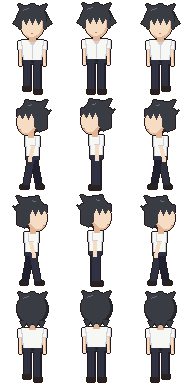
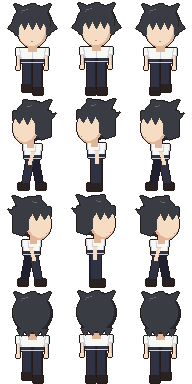
歩行グラフィックの頭と体の比率を、参考のドットを測った値に合わせる（頭を大きく、胴と脚を短く、靴を太く）
Claude-Session: https://claude.ai/code/session_017gxvkc2TW4xYgG5MuSL3N1

Changed region(s): [[0.6875, 0.0, 0.9688, 1.0], [0.0312, 0.0, 0.3125, 1.0], [0.375, 0.0, 0.625, 1.0]]

diff --git a/files.js b/files.js
@@ -2,7 +2,7 @@
 // マップなどを足したら scripts に1行足す（順番どおりに読み込む。main.js は最後）。
 // 版の番号 v は tools/stamp.py が書き換える。
 window.FILES = {
-  v: '20261127022327',
+  v: '20261127022711',
   scripts: [
     'engine/core.js',
     'engine/world.js',

diff --git a/tools/sprites/make_chars.py b/tools/sprites/make_chars.py
@@ -1,4 +1,5 @@
-"""キャラクターの歩行グラフィックを一から描いて img/chars/*.png に書き出す（1コマ64×96px、等倍表示、約3頭身）。
+"""キャラクターの歩行グラフィックを一から描いて img/chars/*.png に書き出す（1コマ64×96px、等倍表示）。
+比率は参考のドットを測って合わせた：頭の高さは全身の約4割・頭の幅は肩幅くらい、胴は短め、スカートは裾が広がり、脚は短く靴は太い。
 
 使い方：python3 tools/sprites/make_chars.py
 横3コマ（左足・立ち・右足）×縦4段（下・左・右・上）。
@@ -22,6 +23,7 @@ class Pen:
     """パレットの文字で色を指定して描く道具。x は体の中心からのずれで指定する"""
 
     def __init__(self, pal):
+        self.k = 1.0  # 頭を描くときだけ大きくする倍率
         self.pal = {k: hexc(v) for k, v in pal.items()}
         self.im = Image.new('RGBA', (FW, FH), (0, 0, 0, 0))
         self.d = ImageDraw.Draw(self.im)
@@ -29,10 +31,12 @@ class Pen:
     def c(self, k):
         return self.pal[k]
 
-    @staticmethod
-    def b(box):
+    def t(self, x, y):
+        return (round(CX + x * self.k), round(y * self.k))
+
+    def b(self, box):
         x0, y0, x1, y1 = box
-        return (CX + x0, y0, CX + x1, y1)
+        return self.t(x0, y0) + self.t(x1, y1)
 
     def ell(self, box, k, shade=None):
         x0, y0, x1, y1 = self.b(box)
@@ -51,117 +55,111 @@ class Pen:
             self.d.rectangle((x0, y0, x1, y1), fill=self.c(k))
 
     def poly(self, pts, k):
-        self.d.polygon([(CX + x, y) for x, y in pts], fill=self.c(k))
+        self.d.polygon([self.t(x, y) for x, y in pts], fill=self.c(k))
 
     def line(self, pts, k):
-        self.d.line([(CX + x, y) for x, y in pts], fill=self.c(k))
+        self.d.line([self.t(x, y) for x, y in pts], fill=self.c(k))
 
     def px(self, pts, k):
         for x, y in pts:
-            self.d.point((CX + x, y), fill=self.c(k))
+            self.d.point(self.t(x, y), fill=self.c(k))
 
 
 LIFT = {0: (3, 0), 1: (0, 0), 2: (0, 3)}  # コマごとに（左足、右足）を上げる量
+HEAD_K = 1.27  # 頭の倍率（参考の比率：頭の高さは全身の約4割、頭の幅は肩幅と同じくらい）
 
 
-# ---------------- 脚 ----------------
+# ---------------- 脚（短め、靴は太く） ----------------
 def legs_front(p, ch, step):
     la, ra = LIFT[step]
     if ch['gender'] == 'boy':
-        p.rect((-8, 58, -2, 86 - la), 'P', 'q')
-        p.rect((2, 58, 8, 86 - ra), 'P', 'q')
-        p.rect((-9, 86 - la, -2, 90 - la), 'B')
-        p.rect((2, 86 - ra, 9, 90 - ra), 'B')
+        p.rect((-9, 56, -1, 84 - la), 'P', 'q')
+        p.rect((1, 56, 9, 84 - ra), 'P', 'q')
+        p.rect((-10, 84 - la, -1, 91 - la), 'B')
+        p.rect((1, 84 - ra, 10, 91 - ra), 'B')
     else:
-        p.rect((-6, 70, -3, 79 - la), 'S', 's')
-        p.rect((3, 70, 6, 79 - ra), 'S', 's')
-        p.rect((-6, 79 - la, -3, 86 - la), 'W', 'w')
-        p.rect((3, 79 - ra, 6, 86 - ra), 'W', 'w')
-        p.rect((-7, 86 - la, -2, 90 - la), 'B')
-        p.rect((2, 86 - ra, 7, 90 - ra), 'B')
+        p.rect((-8, 78, -2, 86 - la), 'W', 'w')
+        p.rect((2, 78, 8, 86 - ra), 'W', 'w')
+        p.rect((-9, 86 - la, -1, 91 - la), 'B')
+        p.rect((1, 86 - ra, 9, 91 - ra), 'B')
 
 
 def legs_side(p, ch, step):
     boy = ch['gender'] == 'boy'
     if step == 1:
         if boy:
-            p.rect((-4, 58, 4, 86), 'P', 'q')
-            p.rect((-7, 86, 4, 90), 'B')
+            p.rect((-5, 56, 5, 84), 'P', 'q')
+            p.rect((-9, 84, 5, 91), 'B')
         else:
-            p.rect((-2, 70, 2, 79), 'S', 's')
-            p.rect((-2, 79, 2, 86), 'W', 'w')
-            p.rect((-5, 86, 2, 90), 'B')
+            p.rect((-4, 78, 4, 86), 'W', 'w')
+            p.rect((-8, 86, 4, 91), 'B')
         return
     back, front = ('q', 'P') if step == 0 else ('P', 'q')
     if boy:
-        p.poly([(-2, 58), (4, 58), (9, 86), (4, 86)], back)
-        p.rect((4, 86, 11, 89), 'B')
-        p.poly([(-4, 58), (2, 58), (-4, 86), (-9, 86)], front)
-        p.rect((-12, 86, -4, 89), 'B')
+        p.poly([(-2, 56), (5, 56), (10, 84), (4, 84)], back)
+        p.rect((4, 84, 13, 90), 'B')
+        p.poly([(-5, 56), (2, 56), (-4, 84), (-10, 84)], front)
+        p.rect((-14, 84, -4, 90), 'B')
     else:
-        p.poly([(1, 70), (4, 70), (8, 86), (5, 86)], 's')
-        p.poly([(5, 80), (7, 80), (8, 86), (5, 86)], 'w')
-        p.rect((5, 86, 10, 89), 'B')
-        p.poly([(-3, 70), (0, 70), (-5, 86), (-8, 86)], 'S')
-        p.poly([(-5, 80), (-2, 80), (-5, 86), (-8, 86)], 'W')
-        p.rect((-11, 86, -5, 89), 'B')
+        p.poly([(1, 78), (6, 78), (9, 86), (4, 86)], 'w')
+        p.rect((4, 86, 11, 90), 'B')
+        p.poly([(-5, 78), (0, 78), (-4, 86), (-9, 86)], 'W')
+        p.rect((-13, 86, -4, 90), 'B')
 
 
-# ---------------- 胴 ----------------
+# ---------------- 胴（短め） ----------------
 def body_front(p, ch, back=False):
     girl = ch['gender'] == 'girl'
-    # 腕（半袖）
-    for s in (-1, 1):
-        x0 = -14 if s < 0 else 10
-        p.rect((x0, 37, x0 + 4, 45), 'W', 'w')
-        p.rect((x0 + 1, 46, x0 + 3, 59), 'S', 's')
-        p.rect((x0 + 1, 59, x0 + 3, 61), 'S')
-    if girl:
-        p.poly([(-10, 56), (10, 56), (14, 72), (-14, 72)], 'K')
-        for x in (-8, -3, 3, 8):
-            p.line([(x, 60), (x + (1 if x > 0 else -1) * 2, 72)], 'k')
-    p.poly([(-11, 36), (11, 36), (9, 58 if not girl else 57), (-9, 58 if not girl else 57)], 'w')
-    p.poly([(-10, 36), (10, 36), (8, 56), (-8, 56)], 'W')
+    for s in (-1, 1):  # 腕（半袖）
+        x0 = -16 if s < 0 else 12
+        p.rect((x0, 44, x0 + 4, 51), 'W', 'w')
+        p.rect((x0 + 1, 52, x0 + 3, 62), 'S', 's')
+        p.rect((x0, 62, x0 + 3, 65), 'S')
+    if girl:  # 裾の広がったスカート
+        p.poly([(-11, 55), (11, 55), (18, 80), (-18, 80)], 'K')
+        for x in (-10, -4, 4, 10):
+            p.line([(x, 59), (x + (2 if x > 0 else -2) + (1 if abs(x) > 5 else 0), 80)], 'k')
+    p.poly([(-13, 44), (13, 44), (11, 58), (-11, 58)], 'w')
+    p.poly([(-12, 44), (12, 44), (10, 56), (-10, 56)], 'W')
     if not girl:
-        p.rect((-9, 56, 9, 59), 'P')
-        p.rect((-1, 56, 1, 58), 'B')  # ベルトの留め具
+        p.rect((-11, 55, 11, 57), 'P')
+        p.rect((-1, 55, 1, 57), 'B')
         if not back:
-            p.poly([(-4, 36), (4, 36), (0, 41)], 'w')
-            p.line([(0, 41), (0, 54)], 'w')
+            p.poly([(-4, 44), (4, 44), (0, 48)], 'w')
+            p.line([(0, 48), (0, 54)], 'w')
+    elif back:
+        p.poly([(-13, 44), (13, 44), (13, 51), (-13, 51)], 'N')
+        p.line([(-13, 49), (13, 49)], 'W')
     else:
-        if back:
-            p.poly([(-11, 36), (11, 36), (11, 45), (-11, 45)], 'N')
-            p.line([(-11, 43), (11, 43)], 'W')
-        else:
-            p.poly([(-11, 36), (11, 36), (8, 42), (0, 47), (-8, 42)], 'N')
-            p.poly([(-5, 36), (5, 36), (0, 43)], 'W')
-            p.poly([(-3, 44), (3, 44), (2, 50), (-2, 50)], 'R')
-            p.poly([(-3, 44), (-6, 47), (-3, 47)], 'R')
-            p.poly([(3, 44), (6, 47), (3, 47)], 'R')
+        p.poly([(-13, 44), (13, 44), (10, 49), (0, 53), (-10, 49)], 'N')
+        p.poly([(-5, 44), (5, 44), (0, 50)], 'W')
+        p.poly([(-3, 51), (3, 51), (2, 56), (-2, 56)], 'R')
+        p.poly([(-3, 51), (-7, 54), (-3, 54)], 'R')
+        p.poly([(3, 51), (7, 54), (3, 54)], 'R')
 
 
 def body_side(p, ch, step):
     girl = ch['gender'] == 'girl'
     swing = {0: -3, 1: 0, 2: 3}[step]
     if girl:
-        p.poly([(-7, 56), (7, 56), (11, 72), (-11, 72)], 'K')
-        p.line([(-3, 60), (-5, 72)], 'k')
-        p.line([(3, 60), (5, 72)], 'k')
-    p.poly([(-7, 36), (7, 36), (6, 57), (-6, 57)], 'w')
-    p.poly([(-6, 36), (6, 36), (5, 55), (-5, 55)], 'W')
+        p.poly([(-8, 55), (8, 55), (14, 80), (-14, 80)], 'K')
+        p.line([(-4, 59), (-7, 80)], 'k')
+        p.line([(4, 59), (7, 80)], 'k')
+    p.poly([(-9, 44), (9, 44), (8, 58), (-8, 58)], 'w')
+    p.poly([(-8, 44), (8, 44), (7, 56), (-7, 56)], 'W')
     if not girl:
-        p.rect((-6, 56, 6, 59), 'P')
+        p.rect((-8, 55, 8, 57), 'P')
     else:
-        p.poly([(0, 36), (8, 36), (8, 43), (2, 43)], 'N')
-        p.poly([(-7, 40), (-4, 40), (-4, 47), (-7, 47)], 'R')
-    # 手前の腕（歩くと前後にふれる）
-    p.rect((-2, 37, 3, 45), 'W', 'w')
-    p.poly([(-1, 46), (2, 46), (2 + swing, 59), (-1 + swing, 59)], 'S')
-    p.rect((-1 + swing, 59, 2 + swing, 61), 'S')
+        p.poly([(0, 44), (10, 44), (10, 50), (2, 50)], 'N')
+        p.poly([(-9, 48), (-6, 48), (-6, 54), (-9, 54)], 'R')
+    p.rect((-2, 45, 3, 51), 'W', 'w')  # 手前の腕（歩くと前後にふれる）
+    p.poly([(-1, 52), (2, 52), (2 + swing, 62), (-1 + swing, 62)], 'S')
+    p.rect((-1 + swing, 62, 2 + swing, 64), 'S')
 
 
 # ---------------- 頭 ----------------
 def head_front(p, ch):
+    p.k = HEAD_K
     boy = ch['gender'] == 'boy'
     if not boy:  # 肩までの髪（後ろ）とサイドテール
         p.rect((-14, 14, -10, 42), 'H', 'h')
@@ -199,6 +197,7 @@ def head_front(p, ch):
 
 
 def head_side(p, ch):
+    p.k = HEAD_K
     boy = ch['gender'] == 'boy'
     if not boy:
         p.poly([(1, 12), (13, 12), (12, 42), (4, 42)], 'h')
@@ -231,6 +230,7 @@ def head_side(p, ch):
 
 
 def head_back(p, ch):
+    p.k = HEAD_K
     boy = ch['gender'] == 'boy'
     p.rect((-3, 28, 3, 37), 's')
     if not boy:
@@ -272,10 +272,12 @@ def frame(ch, d, step):
         legs_front(lower, ch, step)
         body_front(upper, ch)
         head_front(upper, ch)
+        upper.k = 1
     elif side == 'up':
         legs_front(lower, ch, step)
         body_front(upper, ch, back=True)
         head_back(upper, ch)
+        upper.k = 1
     else:
         legs_side(lower, ch, step)
         body_side(upper, ch, step)

diff --git a/CLAUDE.md b/CLAUDE.md
@@ -10,7 +10,7 @@
 - 校舎（廊下8枚と部屋の型）は `tools/gen_school.py` で生成する。生成した `data/maps/school_*.js` は直接直さず、スクリプトを直して作り直す。お話のイベントは `data/story.js` に `G.addEvents` で足す（`at: '扉の名前'` で位置を決められる）。見取り図の施設名のうち学校が特定されそうな名前は一般的な名前に変える
 - 参考にした市販ゲームのファイル（データ・画像・音・シナリオ）はこのリポジトリに入れない
 - タイル素材（ドット絵世界）は二次配布禁止。元のPNGは入れず、`tools/encode_tileset.py` で変換した `data/tilesets/*.js` だけを入れる。タイトル画面の著作権表示（system.js の credits）は消さない
-- キャラの歩行グラフィックは `tools/sprites/make_chars.py` で一から描いている（1コマ64×96px・等倍・約3頭身。ずんぐりした低い等身は好まれない。顔・髪・目・胴などの部品を図形で描き、輪郭は自動。色はパレット）。男子は目を描かない、女子は大きな目、という描き分けが好み。直したらこれを動かして `img/chars/*.png` を作り直す。参考素材は写さない
+- キャラの歩行グラフィックは `tools/sprites/make_chars.py` で一から描いている（1コマ64×96px・等倍。比率は参考のドットを測って合わせる（頭の高さは全身の約4割・頭の幅は肩幅くらい、胴は短め、脚は短く靴は太い）。見た目の印象で描かず、参考があれば必ず測ってから描く。顔・髪・目・胴などの部品を図形で描き、輪郭は自動。色はパレット）。男子は目を描かない、女子は大きな目、という描き分けが好み。直したらこれを動かして `img/chars/*.png` を作り直す。参考素材は写さない
 - 字体：ゲームの文字は M+ 1m（`fonts/mplus-1m-regular.ttf`、M+ FONTS は自由に使用・配布できる）。`G.font()` と css/style.css で指定している。収録外の文字（♪など）は端末のフォントになる
 - 公開は gh-pages ブランチから。更新したら、まず `python3 tools/stamp.py`（files.js の版の番号を新しくする。ブラウザが古いファイルを使い回して新旧が混ざるのを防ぐ）、コミットして `git push origin main main:gh-pages` で両方に送る。そのあと `gh api repos/nzanke/game-test/actions/runs` で「pages build and deployment」が新しいコミットで completed success になったのを確かめてから報告する。ビルドが走らないときは空のコミットを送り直す（Pages 設定のAPIは作業環境から使えない）
 - やりとりと説明は日本語で
